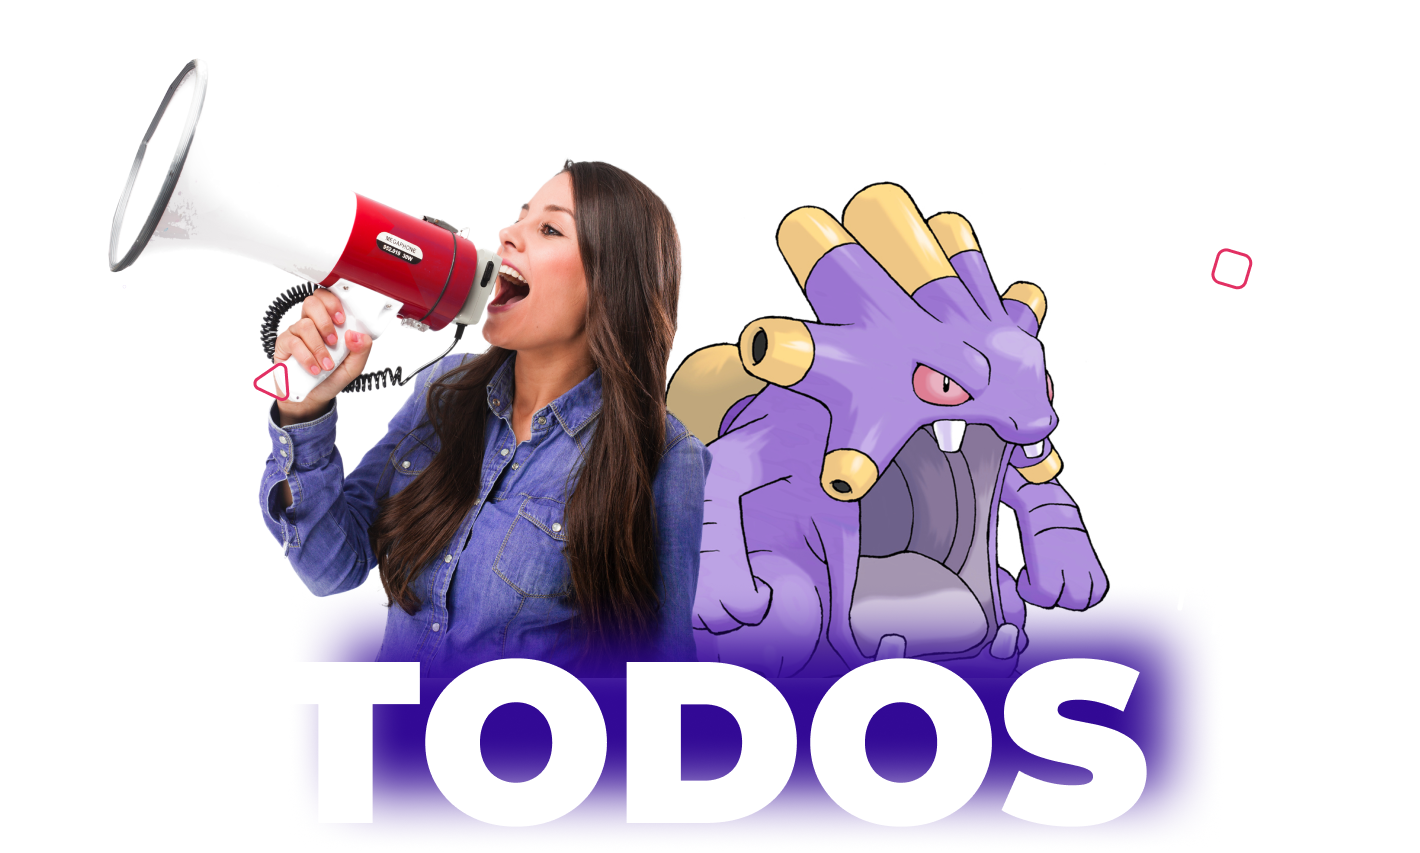
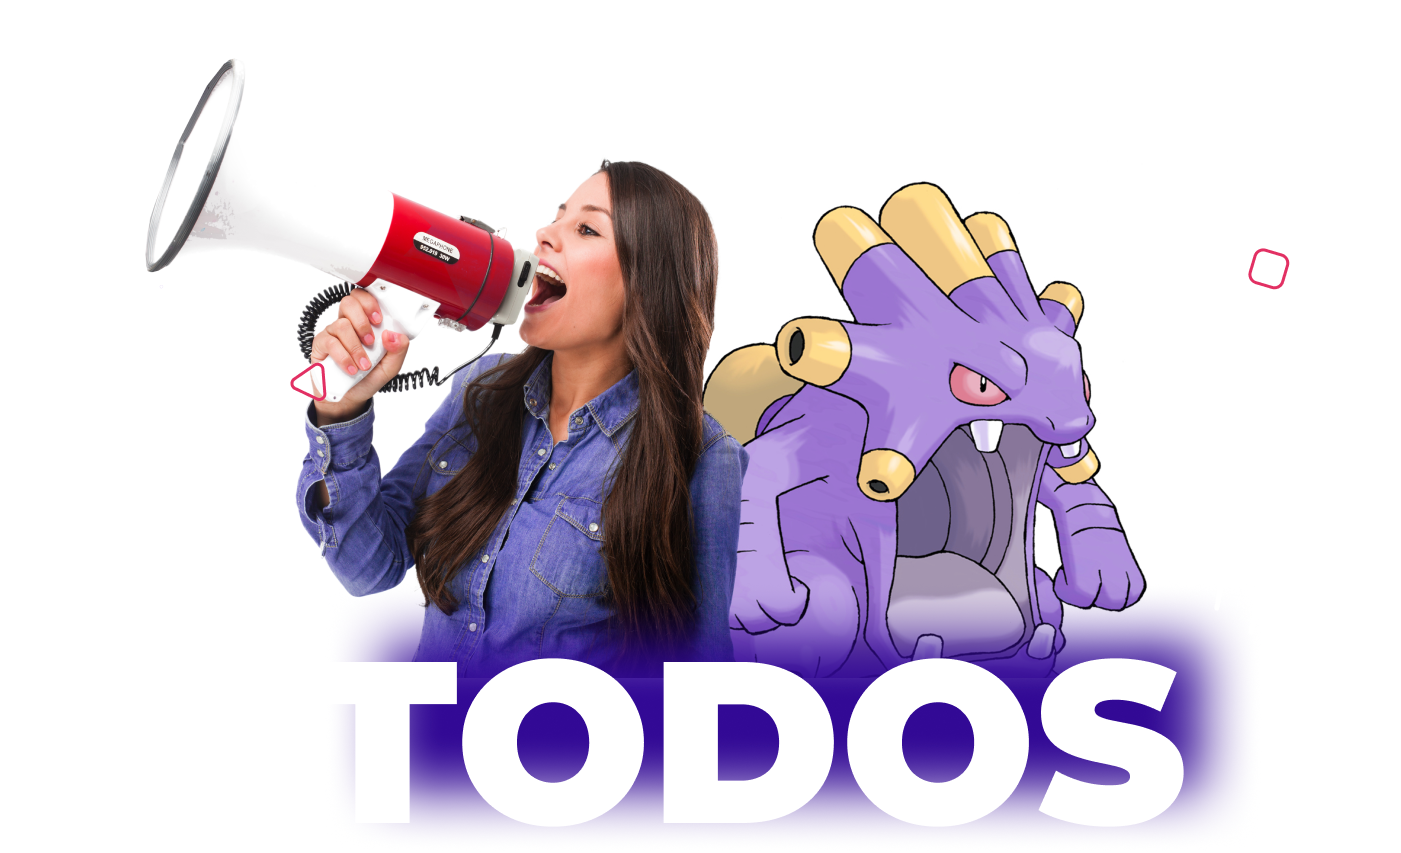
Responsive ChameTodos

diff --git a/src/sections/CardsSection.tsx b/src/sections/CardsSection.tsx
@@ -37,31 +37,32 @@ const ChameTodosSection = () => {
 
 	return (
 		<>
-			<img src={Divider03} alt="Divisão da seção" />
+			<img src={Divider03} className="w-screen" alt="Divisão da seção" />
 
 			<section className="flex flex-col bg-lpurple">
 				<div className="flex flex-col items-center max-w-[90vw] mx-auto mt-12">
 					<div className="flex flex-col items-center">
 						<img
 							src={ChameTodos}
-							className="w-[70%]"
+							className="md:w-[80%] xlg:w-[70%]"
 							alt="Imagem chame todos"
 						/>
 
-						<p className="text-white font-light text-3xl mt-5">
+						<p className="text-white font-light text-xl text-center md:text-3xl mt-5">
 							Conquiste prêmios, <span className="text-green">Pokémons</span> e
 							cartões personalizados!
 						</p>
 					</div>
 
-					<div className="flex justify-center items-center max-w-[90vw] mt-20 w-full">
+					<div className="flex justify-center xl:justify-between items-center max-w-[90vw] mt-10 xlg:mt-20 w-full">
+						{/* Detalhes esquerda */}
 						<img
 							src={LeftCardDetails}
 							alt="Detalhes"
-							className="w-[22vw] h-[50vh] translate-x-20 translate-y-20"
+							className="w-[22vw] h-[50vh] translate-x-20 hidden xl:block translate-y-20"
 						/>
 
-						<div className="w-[35vw]">
+						<div className="w-[80vw] sm:w-[60vw] mb-10 xl:mb-0 xl:w-[35vw]">
 							<Swiper
 								slidesPerView={3}
 								loop={true}
@@ -86,19 +87,21 @@ const ChameTodosSection = () => {
 							</Swiper>
 						</div>
 
+						{/* Detalhes direita */}
 						<img
 							src={RightCardDetails}
 							alt="Detalhes"
-							className="w-[22vw] h-[30vh] -translate-x-0 -translate-y-24"
+							className="w-[22vw] h-[30vh] -translate-x-0  hidden xl:block -translate-y-24"
 						/>
 					</div>
 
-					<div className="mb-20 mt-10 text-white font-semibold hover:cursor-pointer">
+					{/* Botão eu quero! */}
+					<div className="mb-20 whitespace-nowrap mt-10 text-white font-semibold hover:cursor-pointer">
 						<a
 							href="#"
-							className="px-14 py-5 shadow-[#e23063] shadow-[0px_0px_12px_0px] bg-pink rounded-lg"
+							className="px-10 py-5 shadow-[#e23063] shadow-[0px_0px_12px_0px] uppercase bg-pink rounded-lg"
 						>
-							EU QUERO!
+							eu quero!
 						</a>
 					</div>
 				</div>
